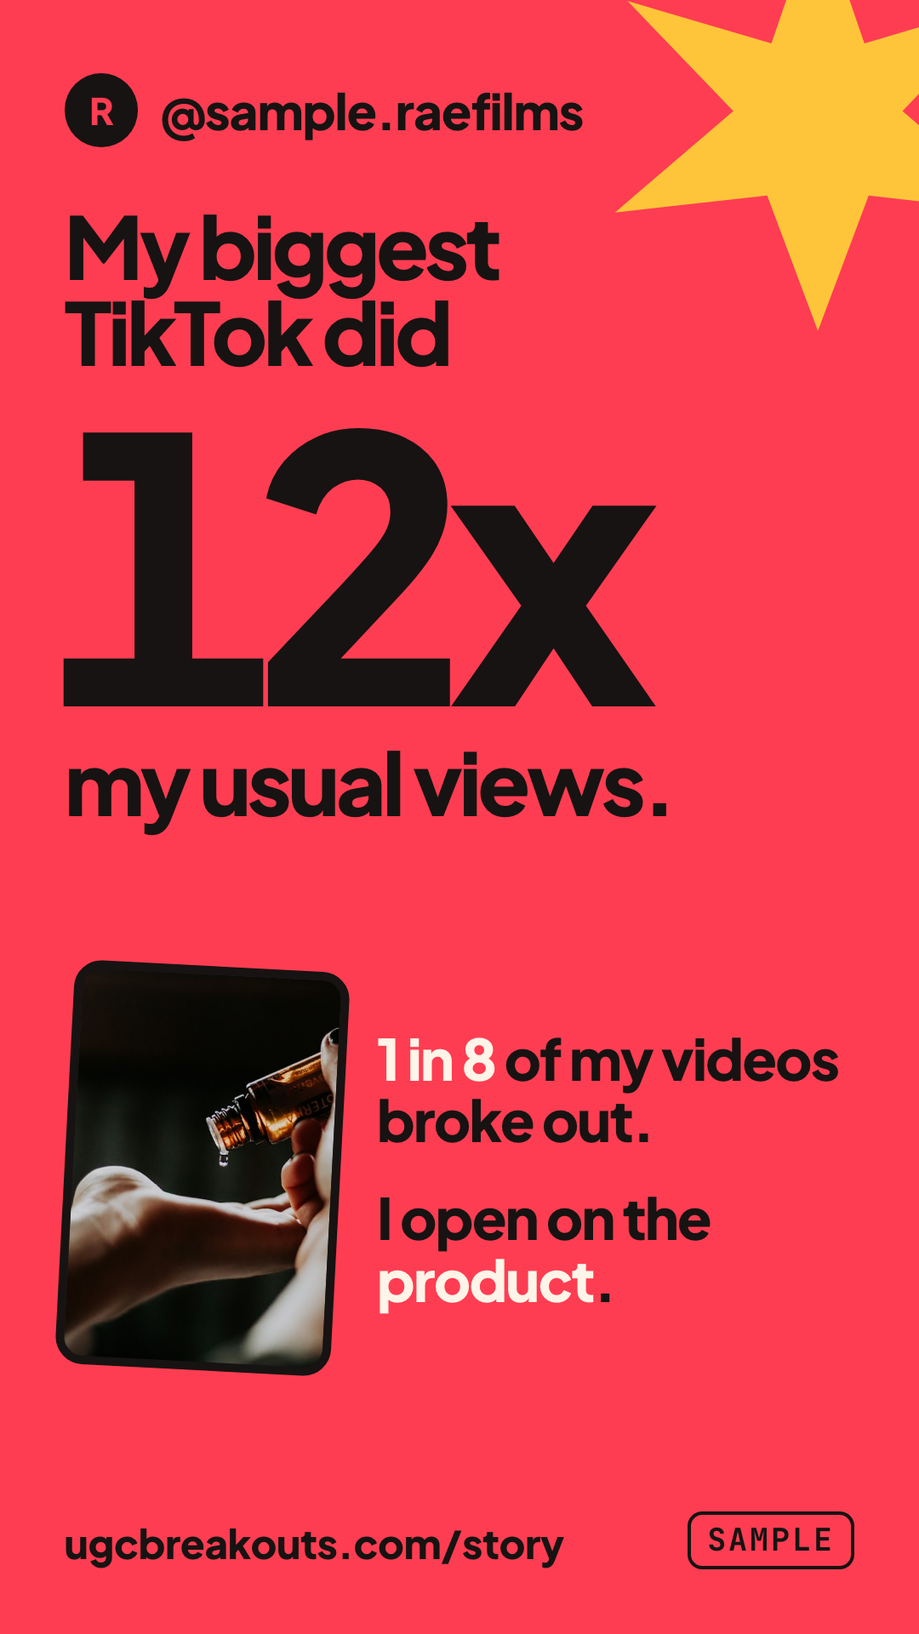
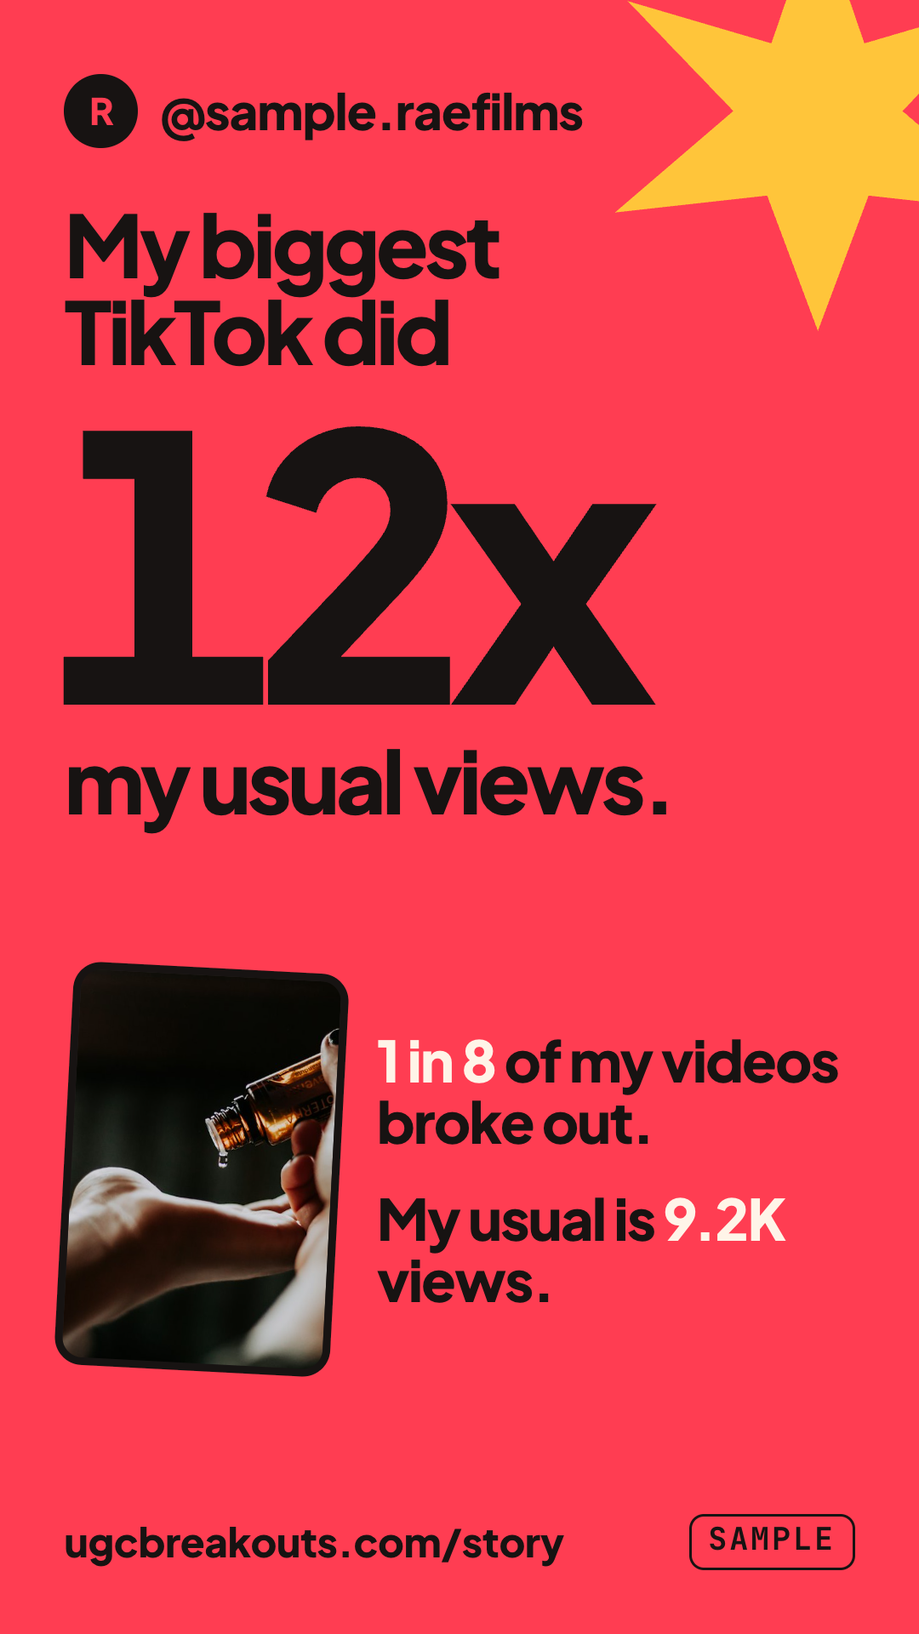
Breakout story: Ivan's answers (5 free cards, hook style + what works after sign up, breakout = score 60 + 15 videos, handle stays, D1, rate limit per IP, read on DM yes)

diff --git a/pitch-free/index.html b/pitch-free/index.html
@@ -593,11 +593,11 @@ function shareCard(mode){
   return '<div class="card sc t-coral '+(mode||"still")+'"><i class="shp star" style="width:46cqw;height:46cqw;right:-12cqw;top:-10cqw;background:#FFC53A"></i>'+
   '<div class="cin"><p class="hdl"><span class="av">R</span>@'+RAE.handle+'</p>'+
   '<p class="h1" style="margin-top:3cqw">My biggest<br>TikTok did</p><p class="big" style="color:#171312">'+v.x+'x</p><p class="h1">my usual views.</p>'+
-  '<div class="fill"><div class="row2"><div class="th" style="'+bg(v.img)+'"></div><div class="facts"><p><b>1 in 8</b> of my videos broke out.</p><p>I open on the <b>product</b>.</p></div></div></div>'+
+  '<div class="fill"><div class="row2"><div class="th" style="'+bg(v.img)+'"></div><div class="facts"><p><b>1 in 8</b> of my videos broke out.</p><p>My usual is <b>'+RAE.avg+'K</b> views.</p></div></div></div>'+
   '<div class="cfoot"><span class="mark">ugcbreakouts.com/story</span>'+SMP+'</div></div></div>';
 }
 var SETS={
-  main:{h:RAE.handle,a:"R",cards:["c2","c3","c5","c6","c7","c8","c9"]},
+  main:{h:RAE.handle,a:"R",cards:["c2","c3","c5","c8","c9"]},
   none:{h:SLOW.handle,a:"S",cards:["n1","n2","n3"]},
   priv:{h:"sample.quietfilms",a:"Q",cards:["p1"]},
   few:{h:"sample.newfilms",a:"N",cards:["f1"]}
@@ -665,12 +665,14 @@ var NOTES={
   dm:{id:"L0 · the DM",h:"The DM",li:[
     ["r","Ivan, 1 Oct: DM creators from the UB TikTok, tell them we found their breakouts, and if they say yes, send their profile analysis."],
     ["a","Sample DM copy only. The real script is its own row on the priorities Sheet."],
-    ["a","The link opens straight into their story, with the handle already filled in. No typing, no login."]]},
+    ["a","The link opens straight into their story, with the handle already filled in. No typing, no login."],
+    ["d","Ivan: run the read when the creator says yes, before they click, so the story is ready and nothing loads."],
+    ["r","Ivan: A/B/C test the DM wording, and look for tools that can automate the sends. Both sit on the outreach row."]]},
   landing:{id:"L1 · ugcbreakouts.com/story",h:"Landing",li:[
     ["r","Ivan, 1 Oct: not a fan of the pitch deck for now, keep the profile story. The deck ask at the end is gone."],
     ["r","Ivan, 30 Sep: “basically like spotify but it’s more addictive… we’ll find the breakouts for your thing for free.” This story is the profile analyzer. In the app it opens from the Profile analyzer buttons."],
-    ["a","Anyone can still type a handle here. Keep this public page, or only open it from the DM link?"],
-    ["d","Anyone can type any public handle. Cache each handle’s result for 24 hours and rate limit per IP, since every read is a scrape."]]},
+    ["r","Ivan: keep the public page where anyone types a handle, but it opens the door to abuse. An email before the first read is one option. To discuss."],
+    ["d","Rate limit per IP (Ivan: yes). Every read is a scrape, so also cache each handle’s result for 24 hours."]]},
   reading:{id:"L2 · reading the account",h:"Reading your account",li:[
     ["v","The short “reading your account” moment from the brief. The count runs up while videos deal across the screen."],
     ["a","How long a read takes is a guess. Searches take 15 seconds to a minute, and this scrapes one account. Expect the short end. Lester to confirm."],
@@ -678,59 +680,59 @@ var NOTES={
   c1:{id:"Card 1 of 9 · free",h:"Videos we read",li:[
     ["a","Opens on the count and the date range, which makes the numbers after it read as fair. The lit tiles hint at the 8 breakouts to come."],
     ["f","SAMPLE on every card, and every handle starts with “sample.” Nothing here is a real account."]]},
-  c2:{id:"Card 1 of 7 · free",h:"Your usual views",li:[
-    ["v","Veejay, 2 Oct: less overwhelming. The story is 7 cards now: “Videos we read” (the reading screen already counts them) and “Your top 3” (it repeated the biggest breakout) are out."],
+  c2:{id:"Card 1 of 5 · free",h:"Your usual views",li:[
+    ["v","Veejay, 2 Oct: less overwhelming. “Videos we read” (the reading screen already counts them) and “Your top 3” (it repeated the biggest breakout) are out."],
     ["a","The baseline, framed as the creator’s own bar and never compared with bigger accounts. It is what makes the next card’s 12x mean something."],
     ["d","Average of the creator’s public videos in the range. If Ivan prefers a median so one huge video doesn’t skew it, the wording stays the same."]]},
-  c3:{id:"Card 2 of 7 · free",h:"Your biggest breakout",li:[
+  c3:{id:"Card 2 of 5 · free",h:"Your biggest breakout",li:[
     ["v","From the brief: “12x your usual views”, the video thumbnail and its hook."],
     ["f","Breakout Score: “A score from 0 to 100. It shows how much a video beat the average of what that account usually gets.” The card leads with the multiple because it needs no explaining."],
     ["a","Thumbnails here are the creator’s own videos, shown to the creator. No other creator’s content appears anywhere in the free tool."]]},
   c4:{id:"Card 4 of 9 · free",h:"Your top 3 breakouts",li:[
     ["a","A ranked list, with the multiple as the big number and the Breakout Score under it. The one line definition sits under the list."],
     ["a","Tapping a breakout could open it on TikTok. Left out for now, the same as Ivan’s “no Watch on TikTok” call in the app."]]},
-  c5:{id:"Card 3 of 7 · free",h:"Your breakout rate",li:[
+  c5:{id:"Card 3 of 5 · free",h:"Your breakout rate",li:[
     ["a","8 of 62 is shown as “1 in 8”, which reads faster than 13% on a phone."],
-    ["a","What counts as a breakout is still open. This card assumes a Breakout Score of 60 or more."]]},
-  c6:{id:"Card 4 of 7 · free",h:"Your hook style",li:[
+    ["r","Ivan: a breakout is a Breakout Score of 60 or more, with at least 15 public videos read."]]},
+  c6:{id:"After sign up",h:"Your hook style",li:[
     ["f","A plain label from the creator’s own breakouts. No rarity figure and no “top x% of creators”: UB doesn’t see a fair sample of all creators, so any percentile would be invented. Ivan’s lock: never invent Breakout numbers."],
-    ["a","The label needs a breakout analysis of the top videos, which costs a model call. Run it for free here, or hide this card until sign up?"]]},
-  c7:{id:"Card 5 of 7 · free",h:"What works for you",li:[
+    ["r","Ivan: hidden until sign up. Not in the free story, so the free read is a scrape only, with no model call."]]},
+  c7:{id:"After sign up",h:"What works for you",li:[
     ["a","Length comes straight from public data. The format line (“tests with the proof on screen”) comes from the same analysis as card 6."],
-    ["a","If there aren’t enough breakouts to find a length pattern, this card is skipped rather than shown weak."]]},
-  c8:{id:"Card 6 of 7 · free",h:"Share card",li:[
+    ["a","If there aren’t enough breakouts to find a length pattern, this card is skipped rather than shown weak."],
+    ["r","Ivan: hidden until sign up, with the hook style card."]]},
+  c8:{id:"Card 4 of 5 · free",h:"Share card",li:[
     ["v","A 9:16 image the creator can save and post, with a small ugcbreakouts.com/story mark. Save image downloads the sample PNG."],
     ["f","The hint says TikTok story only. Share opens the phone’s own share sheet. UB copy names TikTok only."],
-    ["a","No text under about 36px at 1080 wide. The handle is on by default. Let creators hide it?"],
+    ["a","No text under about 36px at 1080 wide."],
+    ["r","Ivan: the handle stays on the card. No option to hide it."],
+    ["v","The second line is now their usual views. “I open on the product” came from the hook analysis, which is sign up only."],
     ["q","Spotify reports 500M+ Wrapped shares in the first 24 hours (company claim). Duolingo saw share rates go up when the flattering number moved onto the share card."+src("https://blog.duolingo.com/year-in-review-behind-the-scenes","Duolingo Blog")]]},
-  c9:{id:"Card 7 of 7 · the ask",h:"Find Breakouts of your own",li:[
+  c9:{id:"Card 5 of 5 · the ask",h:"Find Breakouts of your own",li:[
     ["r","Replaces the pitch deck ask. Heading, line and “Free. Just your email.” are Ivan’s own copy from the Shared screen CTA."]
     ]},
   "private":{id:"E1 · edge case",h:"Private account",li:[
     ["a","One card, then back to the handle box. Nothing is read."]]},
   few:{id:"E2 · edge case",h:"Not enough videos yet",li:[
-    ["a","Under 15 public videos, the average isn’t steady enough. The card counts what they have and what’s left, 9 of 15."],
-    ["a","15 is a guess. An “email me at 15 videos” button would bring these creators back. Worth building?"]]},
+    ["r","Ivan: 15 public videos minimum. Under that, the card counts what they have and what’s left, 9 of 15."],
+    ["a","An “email me at 15 videos” button would bring these creators back. Worth building?"]]},
   none:{id:"E3 · edge case",h:"No breakouts yet",li:[
     ["v","From the brief: encouraging, and it still gives the baseline. Cards 1 and 2 play as normal, then this one."],
     ["a","Shows the closest video as a multiple, from their own data. The button goes to UB’s search."]]},
   desk1:{id:"D1 · desktop",h:"Story beside the landing",li:[
     ["v","The desktop view from the brief: the landing on the left, the story as a phone sized card on the right."],
-    ["a","Arrows and the keyboard’s left and right keys move between cards. The handle box stays usable for trying another account."]]},
+    ["a","Arrows and the keyboard’s left and right keys move between cards. The handle box stays usable for trying another account."],
+    ["r","Ivan: D1 for launch."]]},
   desk2:{id:"D2 · desktop",h:"All cards",li:[
     ["v","The other desktop option from the brief: every card in a grid. Click one to play it."],
     ["a","Pick one of the two for launch. D1 keeps the story feel, D2 is quicker to scan."]]},
   split:{id:"Review",h:"Free vs sign up",li:[
-    ["v","<b>Free, no login:</b> the DM link, the handle box, the reading moment, all 7 story cards, the share card with Save image and Share."],
+    ["v","<b>Free, no login:</b> the DM link, the handle box, the reading moment, all 5 story cards, the share card with Save image and Share."],
+    ["r","<b>After sign up:</b> hook style and what works for you (Ivan)."],
     ["v","<b>Sign up:</b> UB itself, from the last card."]]}
 };
 var QUESTIONS=[
-  "Keep a public page where anyone types a handle, or only open the cards from the DM link?",
-  "Cache each handle for 24 hours and rate limit per IP? Every read is a scrape.",
-  "Run a breakout analysis for free to get the hook style and format (cards 6 and 7), or hide those until sign up?",
-  "15 public videos minimum and a Breakout Score of 60 to count as a breakout?",
-  "Handle on the share card by default, with an option to hide it?",
-  "Launch the desktop as the story beside the landing (D1) or as a grid of cards (D2)?"
+  "Public handle box: ask for an email before the first read, or another guard against abuse? (Ivan: let’s discuss)"
 ];
 function notesHtml(key){
   var legend='<div class="legend"><span><span class="tag r">IVAN</span> his notes</span><span><span class="tag c">CALL</span> Ivan calls</span><span><span class="tag v">VEEJAY</span> Veejay asked for it</span><span><span class="tag a">ASK</span> our suggestion, needs Ivan</span><span><span class="tag q">SOURCE</span> research, linked</span><span><span class="tag d">DEV</span> for Lester</span><span><span class="tag f">LOCK</span> his rules</span></div>';
@@ -744,7 +746,7 @@ var RAIL=[
   {g:"Landing",items:[["dm","L0","The DM"],["landing","L1","/story landing"],["reading","L2","Reading your account"]]},
   {g:"Story, free",items:SETS.main.cards.map(function(id,k){return [id,String(k+1),CARD[id].n];})},
   {g:"Edge cases",items:[["private","E1","Private account"],["few","E2","Not enough videos yet"],["none","E3","No breakouts yet"]]},
-  {g:"Desktop",items:[["desk1","D1","Story beside the landing"],["desk2","D2","All cards"]]},
+  {g:"Desktop",items:[["desk1","D1","Story beside the landing"]]},
   {g:"Review",items:[["split","","Free vs sign up"],["questions","","Questions for Ivan"]]}
 ];
 var KEYS=[];RAIL.forEach(function(g){g.items.forEach(function(it){KEYS.push(it[0]);});});

diff --git a/pitch-free/src/app.js b/pitch-free/src/app.js
@@ -96,11 +96,11 @@ function shareCard(mode){
   return '<div class="card sc t-coral '+(mode||"still")+'"><i class="shp star" style="width:46cqw;height:46cqw;right:-12cqw;top:-10cqw;background:#FFC53A"></i>'+
   '<div class="cin"><p class="hdl"><span class="av">R</span>@'+RAE.handle+'</p>'+
   '<p class="h1" style="margin-top:3cqw">My biggest<br>TikTok did</p><p class="big" style="color:#171312">'+v.x+'x</p><p class="h1">my usual views.</p>'+
-  '<div class="fill"><div class="row2"><div class="th" style="'+bg(v.img)+'"></div><div class="facts"><p><b>1 in 8</b> of my videos broke out.</p><p>I open on the <b>product</b>.</p></div></div></div>'+
+  '<div class="fill"><div class="row2"><div class="th" style="'+bg(v.img)+'"></div><div class="facts"><p><b>1 in 8</b> of my videos broke out.</p><p>My usual is <b>'+RAE.avg+'K</b> views.</p></div></div></div>'+
   '<div class="cfoot"><span class="mark">ugcbreakouts.com/story</span>'+SMP+'</div></div></div>';
 }
 var SETS={
-  main:{h:RAE.handle,a:"R",cards:["c2","c3","c5","c6","c7","c8","c9"]},
+  main:{h:RAE.handle,a:"R",cards:["c2","c3","c5","c8","c9"]},
   none:{h:SLOW.handle,a:"S",cards:["n1","n2","n3"]},
   priv:{h:"sample.quietfilms",a:"Q",cards:["p1"]},
   few:{h:"sample.newfilms",a:"N",cards:["f1"]}
@@ -168,12 +168,14 @@ var NOTES={
   dm:{id:"L0 · the DM",h:"The DM",li:[
     ["r","Ivan, 1 Oct: DM creators from the UB TikTok, tell them we found their breakouts, and if they say yes, send their profile analysis."],
     ["a","Sample DM copy only. The real script is its own row on the priorities Sheet."],
-    ["a","The link opens straight into their story, with the handle already filled in. No typing, no login."]]},
+    ["a","The link opens straight into their story, with the handle already filled in. No typing, no login."],
+    ["d","Ivan: run the read when the creator says yes, before they click, so the story is ready and nothing loads."],
+    ["r","Ivan: A/B/C test the DM wording, and look for tools that can automate the sends. Both sit on the outreach row."]]},
   landing:{id:"L1 · ugcbreakouts.com/story",h:"Landing",li:[
     ["r","Ivan, 1 Oct: not a fan of the pitch deck for now, keep the profile story. The deck ask at the end is gone."],
     ["r","Ivan, 30 Sep: “basically like spotify but it’s more addictive… we’ll find the breakouts for your thing for free.” This story is the profile analyzer. In the app it opens from the Profile analyzer buttons."],
-    ["a","Anyone can still type a handle here. Keep this public page, or only open it from the DM link?"],
-    ["d","Anyone can type any public handle. Cache each handle’s result for 24 hours and rate limit per IP, since every read is a scrape."]]},
+    ["r","Ivan: keep the public page where anyone types a handle, but it opens the door to abuse. An email before the first read is one option. To discuss."],
+    ["d","Rate limit per IP (Ivan: yes). Every read is a scrape, so also cache each handle’s result for 24 hours."]]},
   reading:{id:"L2 · reading the account",h:"Reading your account",li:[
     ["v","The short “reading your account” moment from the brief. The count runs up while videos deal across the screen."],
     ["a","How long a read takes is a guess. Searches take 15 seconds to a minute, and this scrapes one account. Expect the short end. Lester to confirm."],
@@ -181,59 +183,59 @@ var NOTES={
   c1:{id:"Card 1 of 9 · free",h:"Videos we read",li:[
     ["a","Opens on the count and the date range, which makes the numbers after it read as fair. The lit tiles hint at the 8 breakouts to come."],
     ["f","SAMPLE on every card, and every handle starts with “sample.” Nothing here is a real account."]]},
-  c2:{id:"Card 1 of 7 · free",h:"Your usual views",li:[
-    ["v","Veejay, 2 Oct: less overwhelming. The story is 7 cards now: “Videos we read” (the reading screen already counts them) and “Your top 3” (it repeated the biggest breakout) are out."],
+  c2:{id:"Card 1 of 5 · free",h:"Your usual views",li:[
+    ["v","Veejay, 2 Oct: less overwhelming. “Videos we read” (the reading screen already counts them) and “Your top 3” (it repeated the biggest breakout) are out."],
     ["a","The baseline, framed as the creator’s own bar and never compared with bigger accounts. It is what makes the next card’s 12x mean something."],
     ["d","Average of the creator’s public videos in the range. If Ivan prefers a median so one huge video doesn’t skew it, the wording stays the same."]]},
-  c3:{id:"Card 2 of 7 · free",h:"Your biggest breakout",li:[
+  c3:{id:"Card 2 of 5 · free",h:"Your biggest breakout",li:[
     ["v","From the brief: “12x your usual views”, the video thumbnail and its hook."],
     ["f","Breakout Score: “A score from 0 to 100. It shows how much a video beat the average of what that account usually gets.” The card leads with the multiple because it needs no explaining."],
     ["a","Thumbnails here are the creator’s own videos, shown to the creator. No other creator’s content appears anywhere in the free tool."]]},
   c4:{id:"Card 4 of 9 · free",h:"Your top 3 breakouts",li:[
     ["a","A ranked list, with the multiple as the big number and the Breakout Score under it. The one line definition sits under the list."],
     ["a","Tapping a breakout could open it on TikTok. Left out for now, the same as Ivan’s “no Watch on TikTok” call in the app."]]},
-  c5:{id:"Card 3 of 7 · free",h:"Your breakout rate",li:[
+  c5:{id:"Card 3 of 5 · free",h:"Your breakout rate",li:[
     ["a","8 of 62 is shown as “1 in 8”, which reads faster than 13% on a phone."],
-    ["a","What counts as a breakout is still open. This card assumes a Breakout Score of 60 or more."]]},
-  c6:{id:"Card 4 of 7 · free",h:"Your hook style",li:[
+    ["r","Ivan: a breakout is a Breakout Score of 60 or more, with at least 15 public videos read."]]},
+  c6:{id:"After sign up",h:"Your hook style",li:[
     ["f","A plain label from the creator’s own breakouts. No rarity figure and no “top x% of creators”: UB doesn’t see a fair sample of all creators, so any percentile would be invented. Ivan’s lock: never invent Breakout numbers."],
-    ["a","The label needs a breakout analysis of the top videos, which costs a model call. Run it for free here, or hide this card until sign up?"]]},
-  c7:{id:"Card 5 of 7 · free",h:"What works for you",li:[
+    ["r","Ivan: hidden until sign up. Not in the free story, so the free read is a scrape only, with no model call."]]},
+  c7:{id:"After sign up",h:"What works for you",li:[
     ["a","Length comes straight from public data. The format line (“tests with the proof on screen”) comes from the same analysis as card 6."],
-    ["a","If there aren’t enough breakouts to find a length pattern, this card is skipped rather than shown weak."]]},
-  c8:{id:"Card 6 of 7 · free",h:"Share card",li:[
+    ["a","If there aren’t enough breakouts to find a length pattern, this card is skipped rather than shown weak."],
+    ["r","Ivan: hidden until sign up, with the hook style card."]]},
+  c8:{id:"Card 4 of 5 · free",h:"Share card",li:[
     ["v","A 9:16 image the creator can save and post, with a small ugcbreakouts.com/story mark. Save image downloads the sample PNG."],
     ["f","The hint says TikTok story only. Share opens the phone’s own share sheet. UB copy names TikTok only."],
-    ["a","No text under about 36px at 1080 wide. The handle is on by default. Let creators hide it?"],
+    ["a","No text under about 36px at 1080 wide."],
+    ["r","Ivan: the handle stays on the card. No option to hide it."],
+    ["v","The second line is now their usual views. “I open on the product” came from the hook analysis, which is sign up only."],
     ["q","Spotify reports 500M+ Wrapped shares in the first 24 hours (company claim). Duolingo saw share rates go up when the flattering number moved onto the share card."+src("https://blog.duolingo.com/year-in-review-behind-the-scenes","Duolingo Blog")]]},
-  c9:{id:"Card 7 of 7 · the ask",h:"Find Breakouts of your own",li:[
+  c9:{id:"Card 5 of 5 · the ask",h:"Find Breakouts of your own",li:[
     ["r","Replaces the pitch deck ask. Heading, line and “Free. Just your email.” are Ivan’s own copy from the Shared screen CTA."]
     ]},
   "private":{id:"E1 · edge case",h:"Private account",li:[
     ["a","One card, then back to the handle box. Nothing is read."]]},
   few:{id:"E2 · edge case",h:"Not enough videos yet",li:[
-    ["a","Under 15 public videos, the average isn’t steady enough. The card counts what they have and what’s left, 9 of 15."],
-    ["a","15 is a guess. An “email me at 15 videos” button would bring these creators back. Worth building?"]]},
+    ["r","Ivan: 15 public videos minimum. Under that, the card counts what they have and what’s left, 9 of 15."],
+    ["a","An “email me at 15 videos” button would bring these creators back. Worth building?"]]},
   none:{id:"E3 · edge case",h:"No breakouts yet",li:[
     ["v","From the brief: encouraging, and it still gives the baseline. Cards 1 and 2 play as normal, then this one."],
     ["a","Shows the closest video as a multiple, from their own data. The button goes to UB’s search."]]},
   desk1:{id:"D1 · desktop",h:"Story beside the landing",li:[
     ["v","The desktop view from the brief: the landing on the left, the story as a phone sized card on the right."],
-    ["a","Arrows and the keyboard’s left and right keys move between cards. The handle box stays usable for trying another account."]]},
+    ["a","Arrows and the keyboard’s left and right keys move between cards. The handle box stays usable for trying another account."],
+    ["r","Ivan: D1 for launch."]]},
   desk2:{id:"D2 · desktop",h:"All cards",li:[
     ["v","The other desktop option from the brief: every card in a grid. Click one to play it."],
     ["a","Pick one of the two for launch. D1 keeps the story feel, D2 is quicker to scan."]]},
   split:{id:"Review",h:"Free vs sign up",li:[
-    ["v","<b>Free, no login:</b> the DM link, the handle box, the reading moment, all 7 story cards, the share card with Save image and Share."],
+    ["v","<b>Free, no login:</b> the DM link, the handle box, the reading moment, all 5 story cards, the share card with Save image and Share."],
+    ["r","<b>After sign up:</b> hook style and what works for you (Ivan)."],
     ["v","<b>Sign up:</b> UB itself, from the last card."]]}
 };
 var QUESTIONS=[
-  "Keep a public page where anyone types a handle, or only open the cards from the DM link?",
-  "Cache each handle for 24 hours and rate limit per IP? Every read is a scrape.",
-  "Run a breakout analysis for free to get the hook style and format (cards 6 and 7), or hide those until sign up?",
-  "15 public videos minimum and a Breakout Score of 60 to count as a breakout?",
-  "Handle on the share card by default, with an option to hide it?",
-  "Launch the desktop as the story beside the landing (D1) or as a grid of cards (D2)?"
+  "Public handle box: ask for an email before the first read, or another guard against abuse? (Ivan: let’s discuss)"
 ];
 function notesHtml(key){
   var legend='<div class="legend"><span><span class="tag r">IVAN</span> his notes</span><span><span class="tag c">CALL</span> Ivan calls</span><span><span class="tag v">VEEJAY</span> Veejay asked for it</span><span><span class="tag a">ASK</span> our suggestion, needs Ivan</span><span><span class="tag q">SOURCE</span> research, linked</span><span><span class="tag d">DEV</span> for Lester</span><span><span class="tag f">LOCK</span> his rules</span></div>';
@@ -247,7 +249,7 @@ var RAIL=[
   {g:"Landing",items:[["dm","L0","The DM"],["landing","L1","/story landing"],["reading","L2","Reading your account"]]},
   {g:"Story, free",items:SETS.main.cards.map(function(id,k){return [id,String(k+1),CARD[id].n];})},
   {g:"Edge cases",items:[["private","E1","Private account"],["few","E2","Not enough videos yet"],["none","E3","No breakouts yet"]]},
-  {g:"Desktop",items:[["desk1","D1","Story beside the landing"],["desk2","D2","All cards"]]},
+  {g:"Desktop",items:[["desk1","D1","Story beside the landing"]]},
   {g:"Review",items:[["split","","Free vs sign up"],["questions","","Questions for Ivan"]]}
 ];
 var KEYS=[];RAIL.forEach(function(g){g.items.forEach(function(it){KEYS.push(it[0]);});});
